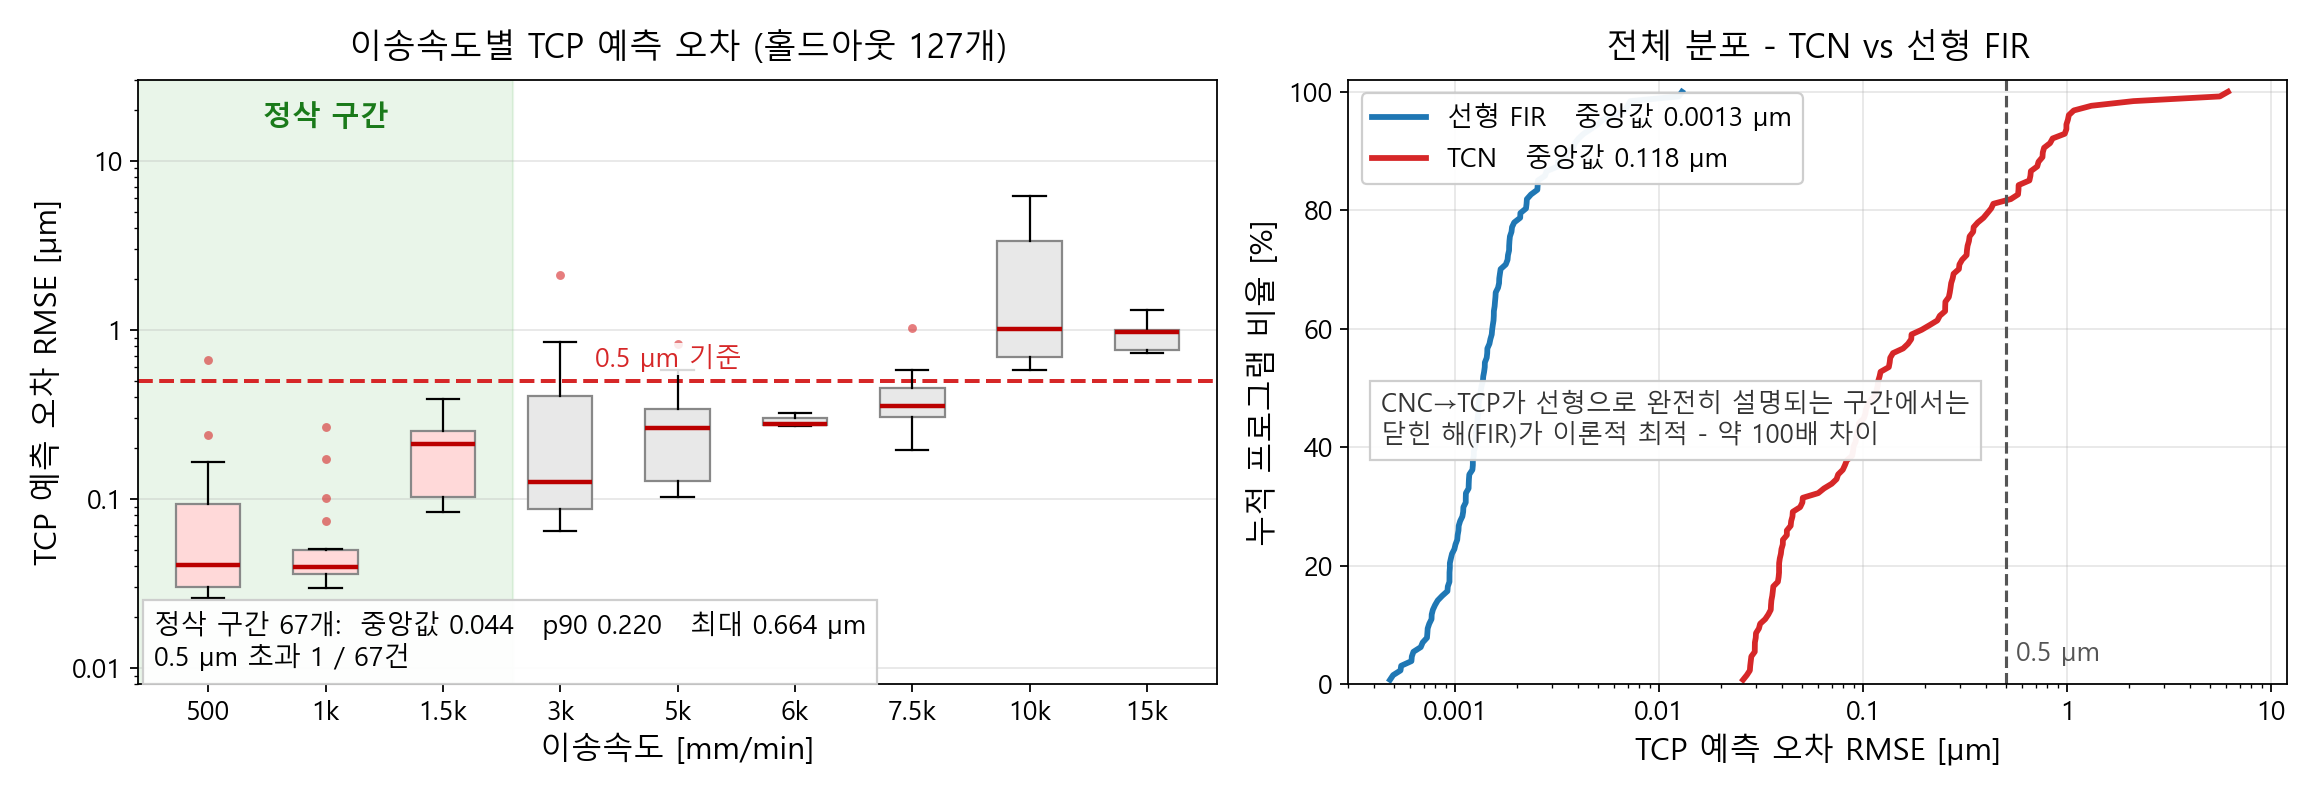
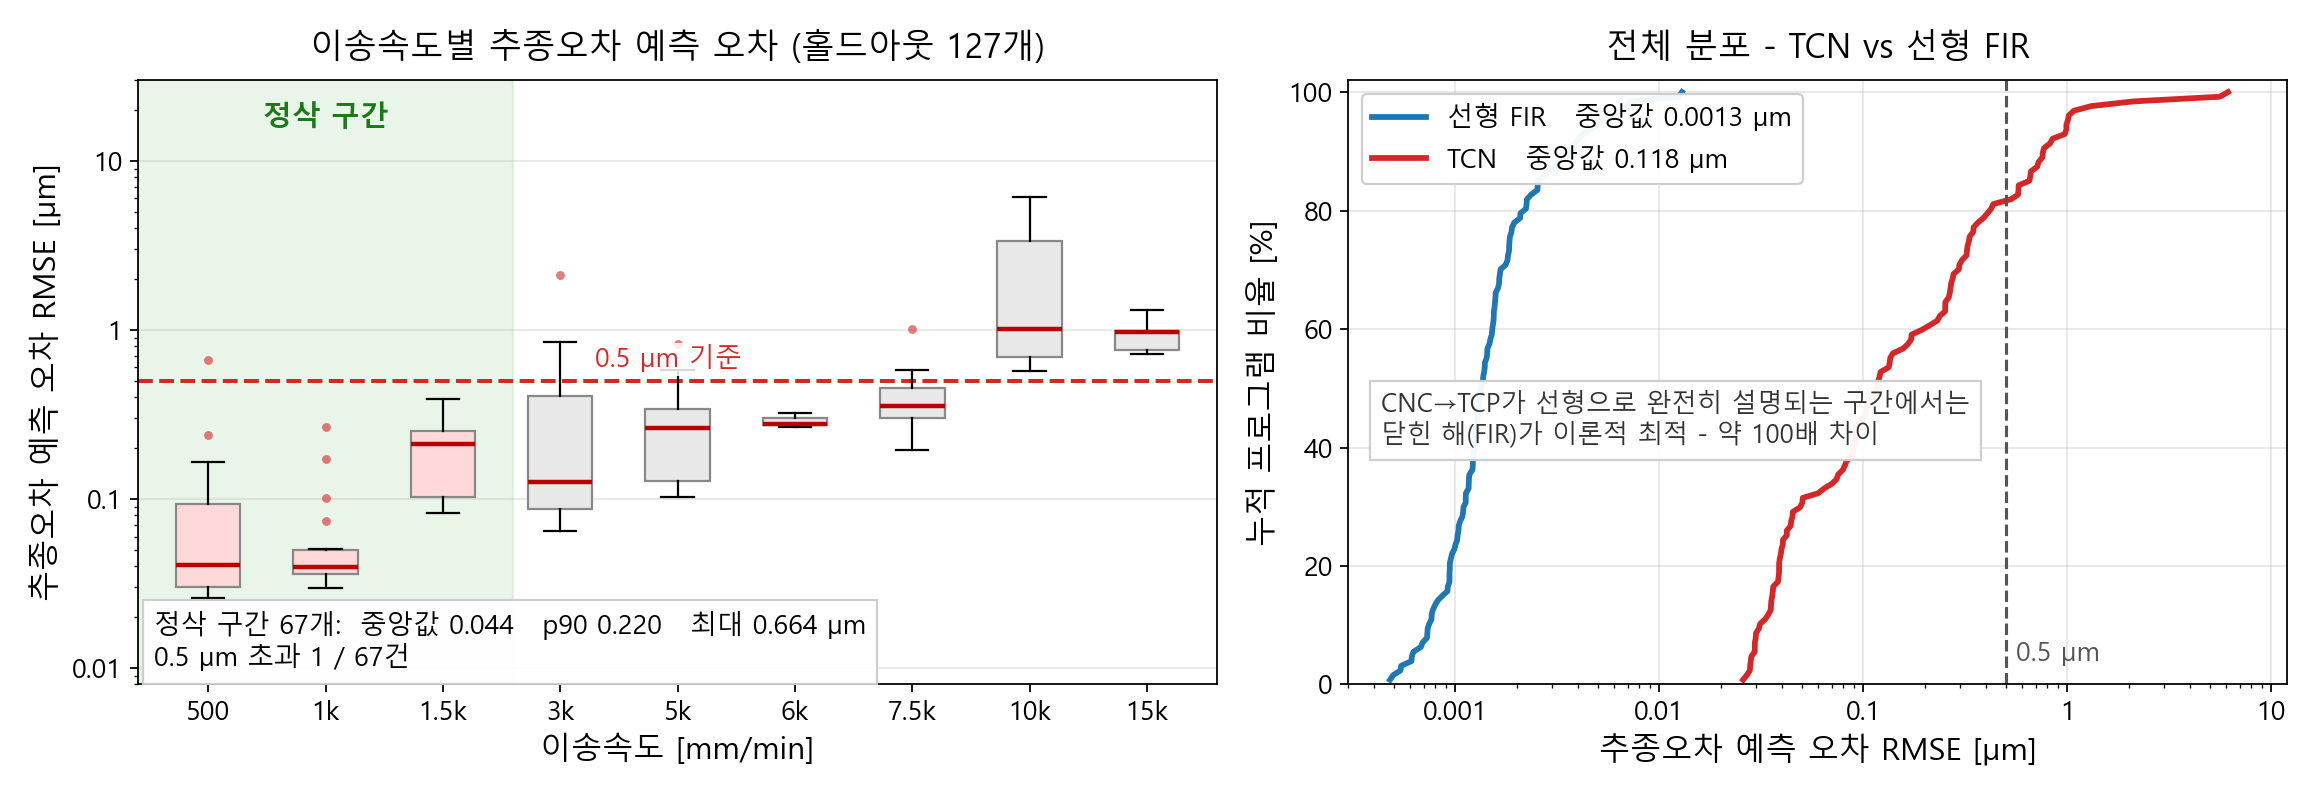
Name the predicted quantity consistently: tracking error, not form error
The page used three names for one thing -- e, TCP prediction error, and the
normal-deviation proxy -- and only disclaimed form error in a box at the end.
Now e is introduced as the tracking error where it is defined, the output
channels and the metric both say so, and the performance section states in the
one line that defines the metric that it is the error in predicting e, not a
comparison against a machined surface. The accuracy figure's axes were
relabelled to match. What remains about form error is the one fact a reader
needs: it needs the exported TCP and a pipeline outside this repository.

The note telling the reader that 06 must precede 07 became a plain 'if you
skip it' line in the step itself -- the numbering already carries the order.

diff --git a/docs/index.html b/docs/index.html
@@ -144,7 +144,7 @@ footer { border-top: 1px solid var(--line); padding-top: 18px; margin-top: 48px;
 <section id="why">
   <h2><span class="num">01</span>왜 TCN인가</h2>
 
-  <div class="formula">예측 대상:  e[n] = TCP[n] − CNC[n]   <span class="cmt">(추종오차, µm)</span></div>
+  <div class="formula">예측 대상:  <strong>추종오차</strong>  e[n] = TCP[n] − CNC[n]   <span class="cmt">µm</span></div>
 
   <div class="reasons">
     <div class="reason">
@@ -201,14 +201,14 @@ footer { border-top: 1px solid var(--line); padding-top: 18px; margin-top: 48px;
 <strong>입력</strong>  u[n] = [ Δcnc·1<sub>G01</sub> , Δcnc·1<sub>G00</sub> ] / s     <span class="cmt">6채널</span>
        s = 급속이송 / 60 × dt                   <span class="cmt">1샘플 이동량</span>
 
-<strong>출력</strong>  e[n] = (TCP[n] − CNC[n]) × 1000           <span class="cmt">3채널, µm</span>
+<strong>출력</strong>  e[n] = (TCP[n] − CNC[n]) × 1000           <span class="cmt">추종오차, 3채널, µm</span>
 <span class="cmt">복원</span>   TCP  = CNC + e / 1000</div>
 
   <div class="tablewrap">
     <table>
       <tbody>
         <tr><td>시간 격자</td><td class="mono">0.5 ms 균일 (2,000 Hz)</td></tr>
-        <tr><td>입력 / 출력</td><td class="mono">6채널 → 3채널 (X/Y/Z)</td></tr>
+        <tr><td>입력 / 출력</td><td class="mono">지령 증분 6채널 → 추종오차 3채널 (X/Y/Z)</td></tr>
         <tr><td>수용영역</td><td class="mono">1,021 샘플 = 510.5 ms</td></tr>
         <tr><td>G00 / G01</td><td>feed 열 기준, 급속이송 값은 데이터에서 자동 검출</td></tr>
         <tr><td>손실 제외</td><td>크롭 앞 1,021 샘플, 빈 행, 급속 구간 가중 0.1</td></tr>
@@ -339,8 +339,7 @@ python code\scripts\02_select_doe.py --criterion excitation --set select.tag=r4 
         <dt>필요</dt><dd><code>split.json</code></dd>
         <dt>결과</dt><dd><code>fir_baseline.npz</code>, <code>metric9_fir_*.csv</code> (약 13초)</dd>
       </dl>
-      <div class="note"><p><strong>반드시 07보다 먼저.</strong> 07이 <code>fir_baseline.npz</code>를 찾아
-      기존 그림에 FIR을 겹쳐 그리고 지표 9 표를 만듭니다.</p></div>
+      <dl class="io"><dt>건너뛰면</dt><dd>07이 FIR 없이 평가합니다. 그림에 FIR 곡선과 지표 9가 빠집니다</dd></dl>
     </div>
   </div>
 
@@ -385,10 +384,10 @@ python code\scripts\02_select_doe.py --criterion excitation --set select.tag=r4 
 
 <section id="perf">
   <h2><span class="num">05</span>성능</h2>
-  <p>홀드아웃 127개 프로그램. 지표는 <code>e = TCP − CNC</code> 벡터 오차의 RMSE.</p>
+  <p>홀드아웃 127개 프로그램. 지표는 <strong>추종오차 예측 오차</strong> — 예측한 <code>e</code>와 실제 <code>e</code>의 차이, 3축 벡터 RMSE입니다. 가공면과 비교한 형상오차가 아닙니다.</p>
 
   <div class="keyfact">
-    <div><div class="v">0.044 µm</div><div class="k">정삭 구간 (중앙값)</div></div>
+    <div><div class="v">0.044 µm</div><div class="k">정삭 구간 추종오차 예측 오차 (중앙값)</div></div>
     <div><div class="v">0.994–0.999</div><div class="k">진동 진폭비</div></div>
     <div><div class="v">0.998–0.9999</div><div class="k">진동 위상 일치도</div></div>
     <div><div class="v">52 분</div><div class="k">학습 (590런 · 120 epoch)</div></div>
@@ -396,7 +395,7 @@ python code\scripts\02_select_doe.py --criterion excitation --set select.tag=r4 
 
   <figure>
     <img src="fig_vibration.png" alt="정삭 조건에서 실제 추종오차와 TCN 예측이 겹쳐 그려진 시계열, 그리고 같은 구간의 예측 잔차">
-    <figcaption>정삭(F500)에서 가장 진동이 심한 250 ms 구간. 왼쪽은 두 곡선이 구분되지 않고,
+    <figcaption>정삭(F500)에서 추종오차의 진동이 가장 심한 250 ms 구간. 왼쪽은 두 곡선이 구분되지 않고,
     오른쪽이 실제 차이입니다.</figcaption>
   </figure>
 
@@ -411,7 +410,7 @@ python code\scripts\02_select_doe.py --criterion excitation --set select.tag=r4 
   <div class="tablewrap">
     <table>
       <thead>
-        <tr><th>모델</th><th class="num">중앙값</th><th class="num">p90</th><th class="num">최대</th>
+        <tr><th>추종오차 예측 오차</th><th class="num">중앙값</th><th class="num">p90</th><th class="num">최대</th>
             <th class="num">정삭 중앙값</th><th class="num">소요</th></tr>
       </thead>
       <tbody>
@@ -425,7 +424,7 @@ python code\scripts\02_select_doe.py --criterion excitation --set select.tag=r4 
   <p style="font-size:.85rem;color:var(--fg-dim);margin-top:-6px">단위 µm. 정삭 = 절삭이송 1,500 mm/min 이하 67개.</p>
 
   <figure>
-    <img src="fig_accuracy.png" alt="이송속도별 TCP 예측 오차 상자그림과, TCN·FIR의 누적 분포 비교">
+    <img src="fig_accuracy.png" alt="이송속도별 추종오차 예측 오차 상자그림과, TCN·FIR의 누적 분포 비교">
     <figcaption>왼쪽: 이송속도가 오르면 오차도 커지지만 신호가 64배 커지므로 상대오차는 줄어듭니다.
     오른쪽: 두 분포가 가로축에서 약 100배 떨어져 있습니다.</figcaption>
   </figure>
@@ -439,8 +438,8 @@ python code\scripts\02_select_doe.py --criterion excitation --set select.tag=r4 
   </ul>
 
   <div class="note">
-    <p>여기서 말하는 오차는 <strong>TCP 궤적 예측</strong>의 오차입니다. 형상오차가 아닙니다.
-    형상오차는 예측 TCP를 외부 형상 파이프라인에 넣어야 하고, 그 단계는 이 저장소 밖에 있습니다.</p>
+    <p>형상오차가 필요하면 예측 TCP(<code>tcp/*.csv</code>)를 외부 형상 파이프라인에 넣어야 합니다.
+    그 단계는 이 저장소 밖입니다.</p>
   </div>
 </section>
 
